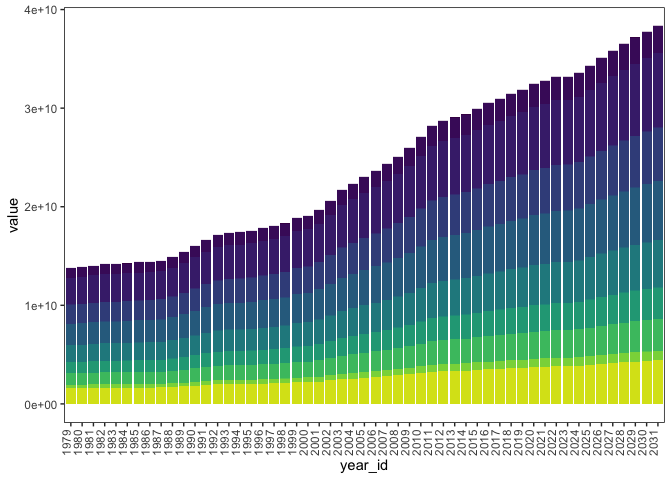
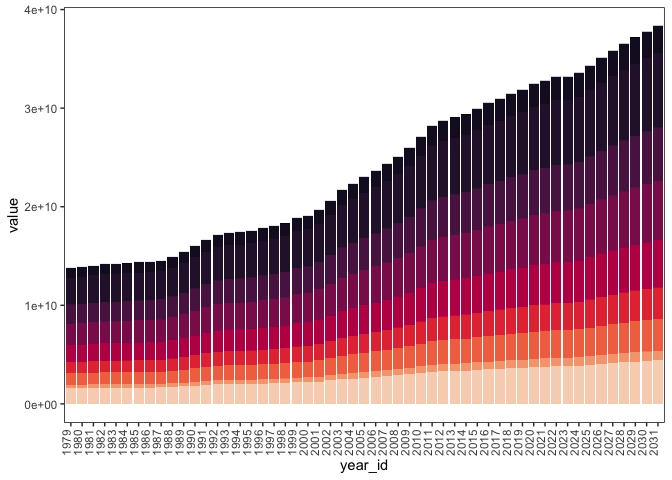
performed mutations for reduction and percent reductions across the modeled dietary scenarios (from baseline) and generated preliminary visualizations representing how these measures change over time (between 1970 and 2031)

diff --git a/scripts/cleaning-script.md b/scripts/cleaning-script.md
@@ -895,6 +895,16 @@ multiply these factors by enrollment estimates and pop projections
 %\>% select(diet_attribute,value) %\>%
 pivot_wider(names_from=diet_attribute,values_from=value)
 
+with each of these annual per capita estimates, we can now multiply the
+total number of individuals enrolled in ISCED 6-8 programs by the
+corresponding sustainability indicators
+
+we specifically want to derive each of the indicators that were selected
+while also isolating the indicators for green water (by subtracting the
+total water footprint from the total blue water footprint) and the
+land-use-change-attributable emissions (by subtracting the total carbon
+emissions from the luc-excluding carbon emissions)
+
 ``` r
 cleaned_data <- cleaned_data %>%
   mutate(univ_baseline_kg_co2e_total=univ_deg_tot*2058.1945) %>%
@@ -1038,8 +1048,8 @@ cleaned_data
     ## #   population <dbl>, prop_pop_univ_deg_tot <dbl>, univ_aged_pop <dbl>,
     ## #   prop_univ_aged_pop_univ_deg_tot <dbl>, attain_onetothree <dbl>, …
 
-mutated to find luc-attributable dietary emissions / need to introduce
-similar functions isolating green water footprints
+still ^ ^ ^ ^ ^ need to introduce similar functions isolating green
+water footprints
 
 mutate to calculate reductions in favor of scenario-specific totals
 
@@ -1049,19 +1059,52 @@ cleaned_data %>%
   pivot_longer(!year_id,names_to="indicator",values_to="value") %>%
   ggplot(aes(x=year_id,y=value,fill=indicator)) +
   geom_col(position="stack") + 
-  scale_fill_viridis_d() + 
+  scale_fill_viridis_d(option="F") + 
   theme(legend.position="none",panel.grid.minor=element_blank(),panel.border=element_rect(color="black",fill="transparent"),panel.background=element_rect(fill="transparent"),axis.text.x=element_text(angle=90,vjust=0,hjust=0))
 ```
 
 ![](cleaning-script_files/figure-gfm/unnamed-chunk-30-1.png)<!-- -->
-facet_wrap(~indicator)
 
 ``` r
 cleaned_data %>%
-  mutate(univ_meatless_day_kg_co2e_total_red_from_baseline=univ_meatless_day_kg_co2e_total-univ_baseline_kg_co2e_total)
+  select(year_id,univ_baseline_kg_co2e_luc,univ_baseline_kg_co2e_excl_luc,univ_meatless_day_kg_co2e_luc,univ_meatless_day_kg_co2e_excl_luc,univ_low_red_meat_kg_co2e_luc,univ_low_red_meat_kg_co2e_excl_luc,univ_no_dairy_kg_co2e_luc,univ_no_dairy_kg_co2e_excl_luc,univ_no_red_meat_kg_co2e_luc,univ_no_red_meat_kg_co2e_excl_luc,univ_pescatarian_kg_co2e_luc,univ_pescatarian_kg_co2e_excl_luc,univ_vegetarian_kg_co2e_luc,univ_vegetarian_kg_co2e_excl_luc,univ_23vegan_kg_co2e_luc,univ_23vegankg_co2e_excl_luc,univ_vegan_kg_co2e_luc,univ_vegan_kg_co2e_excl_luc) %>%
+  pivot_longer(!year_id,names_to="indicator",values_to="value") %>%
+  ggplot(aes(x=year_id,y=value,fill=indicator)) +
+  geom_col(position="stack") + 
+  scale_fill_viridis_d(option="F") + 
+  theme(legend.position="none",panel.grid.minor=element_blank(),panel.border=element_rect(color="black",fill="transparent"),panel.background=element_rect(fill="transparent"),axis.text.x=element_text(angle=90,vjust=0,hjust=0)) +
+   facet_wrap(~indicator)
 ```
 
-    ## # A tibble: 53 × 151
+![](cleaning-script_files/figure-gfm/unnamed-chunk-31-1.png)<!-- -->
+now, we genearte variables documenting both the decrease (by subtracting
+the scenario-based value from the baseline value) and percent decrease
+(by subtracting the scenario-based value from the baseline value and
+dividing that difference by the baseline value) in the value of the
+corresponding indicator from baseline across scenarios
+
+``` r
+cleaned_data <- cleaned_data %>%
+  mutate(univ_meatless_day_kg_co2e_total_reduct_from_baseline=univ_baseline_kg_co2e_total-univ_meatless_day_kg_co2e_total) %>%
+  mutate(univ_meatless_day_kg_co2e_total_perc_reduct_from_baseline=(univ_baseline_kg_co2e_total-univ_meatless_day_kg_co2e_total)/univ_baseline_kg_co2e_total) %>%
+  mutate(univ_low_red_meat_kg_co2e_total_reduct_from_baseline=univ_baseline_kg_co2e_total-univ_low_red_meat_kg_co2e_total) %>%
+  mutate(univ_low_red_meat_kg_co2e_total_perc_reduct_from_baseline=(univ_baseline_kg_co2e_total-univ_low_red_meat_kg_co2e_total)/univ_baseline_kg_co2e_total) %>%
+  mutate(univ_no_dairy_kg_co2e_total_reduct_from_baseline=univ_baseline_kg_co2e_total-univ_no_dairy_kg_co2e_total) %>%
+  mutate(univ_no_dairy_kg_co2e_total_perc_reduct_from_baseline=(univ_baseline_kg_co2e_total-univ_no_dairy_kg_co2e_total)/univ_baseline_kg_co2e_total) %>%
+  mutate(univ_no_red_meat_kg_co2e_total_reduct_from_baseline=univ_baseline_kg_co2e_total-univ_no_red_meat_kg_co2e_total) %>%
+  mutate(univ_no_red_meat_kg_co2e_total_perc_reduct_from_baseline=(univ_baseline_kg_co2e_total-univ_no_red_meat_kg_co2e_total)/univ_baseline_kg_co2e_total) %>%
+  mutate(univ_pescatarian_kg_co2e_total_reduct_from_baseline=univ_baseline_kg_co2e_total-univ_pescatarian_kg_co2e_total) %>%
+  mutate(univ_pescatarian_kg_co2e_total_perc_reduct_from_baseline=(univ_baseline_kg_co2e_total-univ_pescatarian_kg_co2e_total)/univ_baseline_kg_co2e_total) %>%
+  mutate(univ_vegetarian_kg_co2e_total_reduct_from_baseline=univ_baseline_kg_co2e_total-univ_vegetarian_kg_co2e_total) %>%
+  mutate(univ_vegetarian_kg_co2e_total_perc_reduct_from_baseline=(univ_baseline_kg_co2e_total-univ_vegetarian_kg_co2e_total)/univ_baseline_kg_co2e_total) %>%
+  mutate(univ_23vegan_kg_co2e_total_reduct_from_baseline=univ_baseline_kg_co2e_total-univ_23vegan_kg_co2e_total) %>%
+  mutate(univ_23vegan_kg_co2e_total_perc_reduct_from_baseline=(univ_baseline_kg_co2e_total-univ_23vegan_kg_co2e_total)/univ_baseline_kg_co2e_total) %>%
+  mutate(univ_vegan_kg_co2e_total_reduct_from_baseline=univ_baseline_kg_co2e_total-univ_vegan_kg_co2e_total) %>%
+  mutate(univ_vegan_kg_co2e_total_perc_reduct_from_baseline=(univ_baseline_kg_co2e_total-univ_vegan_kg_co2e_total)/univ_baseline_kg_co2e_total) 
+cleaned_data
+```
+
+    ## # A tibble: 53 × 166
     ##    acad.year year_id assoc_deg…¹ assoc…² assoc…³ bach_…⁴ bach_…⁵ bach_…⁶ bach_…⁷
     ##    <chr>     <chr>         <dbl>   <dbl>   <dbl>   <dbl>   <dbl>   <dbl>   <dbl>
     ##  1 1979-80   1979         400910  183737  217173  929417       0  473611       0
@@ -1074,7 +1117,7 @@ cleaned_data %>%
     ##  8 1986-87   1986         436304  190839  245465  991264       0  480782       0
     ##  9 1987-88   1987         435085  190047  245038  994829       0  477203       0
     ## 10 1988-89   1988         436764  186316  250448 1018755       0  483346       0
-    ## # … with 43 more rows, 142 more variables: bach_deg_f <dbl>,
+    ## # … with 43 more rows, 157 more variables: bach_deg_f <dbl>,
     ## #   bach_deg_f_assoc <dbl>, mast_deg_tot <dbl>, mast_deg_m <dbl>,
     ## #   mast_deg_f <dbl>, doct_deg_tot <dbl>, doct_deg_m <dbl>, doct_deg_f <dbl>,
     ## #   univ_deg_tot <dbl>, univ_deg_m <dbl>, univ_deg_f <dbl>,
@@ -1082,4 +1125,69 @@ cleaned_data %>%
     ## #   population <dbl>, prop_pop_univ_deg_tot <dbl>, univ_aged_pop <dbl>,
     ## #   prop_univ_aged_pop_univ_deg_tot <dbl>, attain_onetothree <dbl>, …
 
-reduction AND percent reduction
+perc reduct first
+
+``` r
+cleaned_data %>%
+  select(year_id,univ_meatless_day_kg_co2e_total_reduct_from_baseline,univ_meatless_day_kg_co2e_total_perc_reduct_from_baseline,univ_low_red_meat_kg_co2e_total_reduct_from_baseline,univ_low_red_meat_kg_co2e_total_perc_reduct_from_baseline,univ_no_dairy_kg_co2e_total_reduct_from_baseline,univ_no_dairy_kg_co2e_total_perc_reduct_from_baseline,univ_no_red_meat_kg_co2e_total_reduct_from_baseline,univ_no_red_meat_kg_co2e_total_perc_reduct_from_baseline,univ_pescatarian_kg_co2e_total_reduct_from_baseline,univ_pescatarian_kg_co2e_total_perc_reduct_from_baseline,univ_vegetarian_kg_co2e_total_reduct_from_baseline,univ_vegetarian_kg_co2e_total_perc_reduct_from_baseline,univ_23vegan_kg_co2e_total_reduct_from_baseline,univ_23vegan_kg_co2e_total_perc_reduct_from_baseline,univ_vegan_kg_co2e_total_reduct_from_baseline,univ_vegan_kg_co2e_total_perc_reduct_from_baseline) %>%
+  pivot_longer(!year_id,names_to="indicator",values_to="value") 
+```
+
+    ## # A tibble: 848 × 3
+    ##    year_id indicator                                                   value
+    ##    <chr>   <chr>                                                       <dbl>
+    ##  1 1979    univ_meatless_day_kg_co2e_total_reduct_from_baseline      5.83e+8
+    ##  2 1979    univ_meatless_day_kg_co2e_total_perc_reduct_from_baseline 2.13e-1
+    ##  3 1979    univ_low_red_meat_kg_co2e_total_reduct_from_baseline      7.99e+8
+    ##  4 1979    univ_low_red_meat_kg_co2e_total_perc_reduct_from_baseline 2.92e-1
+    ##  5 1979    univ_no_dairy_kg_co2e_total_reduct_from_baseline          1.01e+9
+    ##  6 1979    univ_no_dairy_kg_co2e_total_perc_reduct_from_baseline     3.68e-1
+    ##  7 1979    univ_no_red_meat_kg_co2e_total_reduct_from_baseline       1.60e+9
+    ##  8 1979    univ_no_red_meat_kg_co2e_total_perc_reduct_from_baseline  5.83e-1
+    ##  9 1979    univ_pescatarian_kg_co2e_total_reduct_from_baseline       1.57e+9
+    ## 10 1979    univ_pescatarian_kg_co2e_total_perc_reduct_from_baseline  5.74e-1
+    ## # … with 838 more rows
+
+``` r
+cleaned_data %>%
+  select(year_id,univ_meatless_day_kg_co2e_total_perc_reduct_from_baseline,univ_low_red_meat_kg_co2e_total_perc_reduct_from_baseline,univ_no_dairy_kg_co2e_total_perc_reduct_from_baseline,univ_no_red_meat_kg_co2e_total_perc_reduct_from_baseline,univ_pescatarian_kg_co2e_total_perc_reduct_from_baseline,univ_vegetarian_kg_co2e_total_perc_reduct_from_baseline,univ_23vegan_kg_co2e_total_perc_reduct_from_baseline,univ_vegan_kg_co2e_total_perc_reduct_from_baseline) %>%
+  pivot_longer(!year_id,names_to="indicator",values_to="value") %>%
+  ggplot(aes(x=year_id,y=value,fill=indicator)) +
+  geom_col(position="stack") + 
+  scale_fill_viridis_d(option="F") + 
+  theme(legend.position="none",panel.grid.minor=element_blank(),panel.border=element_rect(color="black",fill="transparent"),panel.background=element_rect(fill="transparent"),axis.text.x=element_text(angle=90,vjust=0,hjust=0)) 
+```
+
+![](cleaning-script_files/figure-gfm/unnamed-chunk-34-1.png)<!-- -->
+
+``` r
+cleaned_data %>%
+  select(year_id,univ_meatless_day_kg_co2e_total_reduct_from_baseline,univ_low_red_meat_kg_co2e_total_reduct_from_baseline,univ_no_dairy_kg_co2e_total_reduct_from_baseline,univ_no_red_meat_kg_co2e_total_reduct_from_baseline,univ_pescatarian_kg_co2e_total_reduct_from_baseline,univ_vegetarian_kg_co2e_total_reduct_from_baseline,univ_23vegan_kg_co2e_total_reduct_from_baseline,univ_vegan_kg_co2e_total_reduct_from_baseline) %>%
+  pivot_longer(!year_id,names_to="indicator",values_to="value") %>%
+  ggplot(aes(x=year_id,y=value,fill=indicator)) +
+  geom_col(position="stack") + 
+  scale_fill_viridis_d(option="F") + 
+  theme(legend.position="none",panel.grid.minor=element_blank(),panel.border=element_rect(color="black",fill="transparent"),panel.background=element_rect(fill="transparent"),axis.text.x=element_text(angle=90,vjust=0,hjust=0)) 
+```
+
+![](cleaning-script_files/figure-gfm/unnamed-chunk-35-1.png)<!-- -->
+
+``` r
+cleaned_data %>%
+  select(year_id,univ_meatless_day_kg_co2e_total_reduct_from_baseline,univ_low_red_meat_kg_co2e_total_reduct_from_baseline,univ_no_dairy_kg_co2e_total_reduct_from_baseline,univ_no_red_meat_kg_co2e_total_reduct_from_baseline,univ_pescatarian_kg_co2e_total_reduct_from_baseline,univ_vegetarian_kg_co2e_total_reduct_from_baseline,univ_23vegan_kg_co2e_total_reduct_from_baseline,univ_vegan_kg_co2e_total_reduct_from_baseline) %>%
+  pivot_longer(!year_id,names_to="indicator",values_to="value") %>%
+  ggplot(aes(x=year_id,y=value,fill=indicator)) +
+  geom_col(position="stack") + 
+  scale_fill_viridis_d(option="F") + 
+  theme(legend.position="none",panel.grid.minor=element_blank(),panel.border=element_rect(color="black",fill="transparent"),panel.background=element_rect(fill="transparent"),axis.text.x=element_text(angle=90,vjust=0,hjust=0)) +
+  facet_wrap(~indicator)
+```
+
+![](cleaning-script_files/figure-gfm/unnamed-chunk-36-1.png)<!-- -->
+
+cleaned_data %\>%
+select(year_id,univ_baseline_kg_co2e_luc,univ_baseline_kg_co2e_excl_luc,univ_meatless_day_kg_co2e_luc,univ_meatless_day_kg_co2e_excl_luc,univ_low_red_meat_kg_co2e_luc,univ_low_red_meat_kg_co2e_excl_luc,univ_no_dairy_kg_co2e_luc,univ_no_dairy_kg_co2e_excl_luc,univ_no_red_meat_kg_co2e_luc,univ_no_red_meat_kg_co2e_excl_luc,univ_pescatarian_kg_co2e_luc,univ_pescatarian_kg_co2e_excl_luc,univ_vegetarian_kg_co2e_luc,univ_vegetarian_kg_co2e_excl_luc,univ_23vegan_kg_co2e_luc,univ_23vegankg_co2e_excl_luc,univ_vegan_kg_co2e_luc,univ_vegan_kg_co2e_excl_luc)
+%\>% pivot_longer(!year_id,names_to=“indicator”,values_to=“value”) %\>%
+ggplot(aes(x=year_id,y=value,fill=indicator)) +
+geom_col(position=“stack”) + scale_fill_viridis_d(option=“F”) +
+theme(legend.position=“none”,panel.grid.minor=element_blank(),panel.border=element_rect(color=“black”,fill=“transparent”),panel.background=element_rect(fill=“transparent”),axis.text.x=element_text(angle=90,vjust=0,hjust=0))
